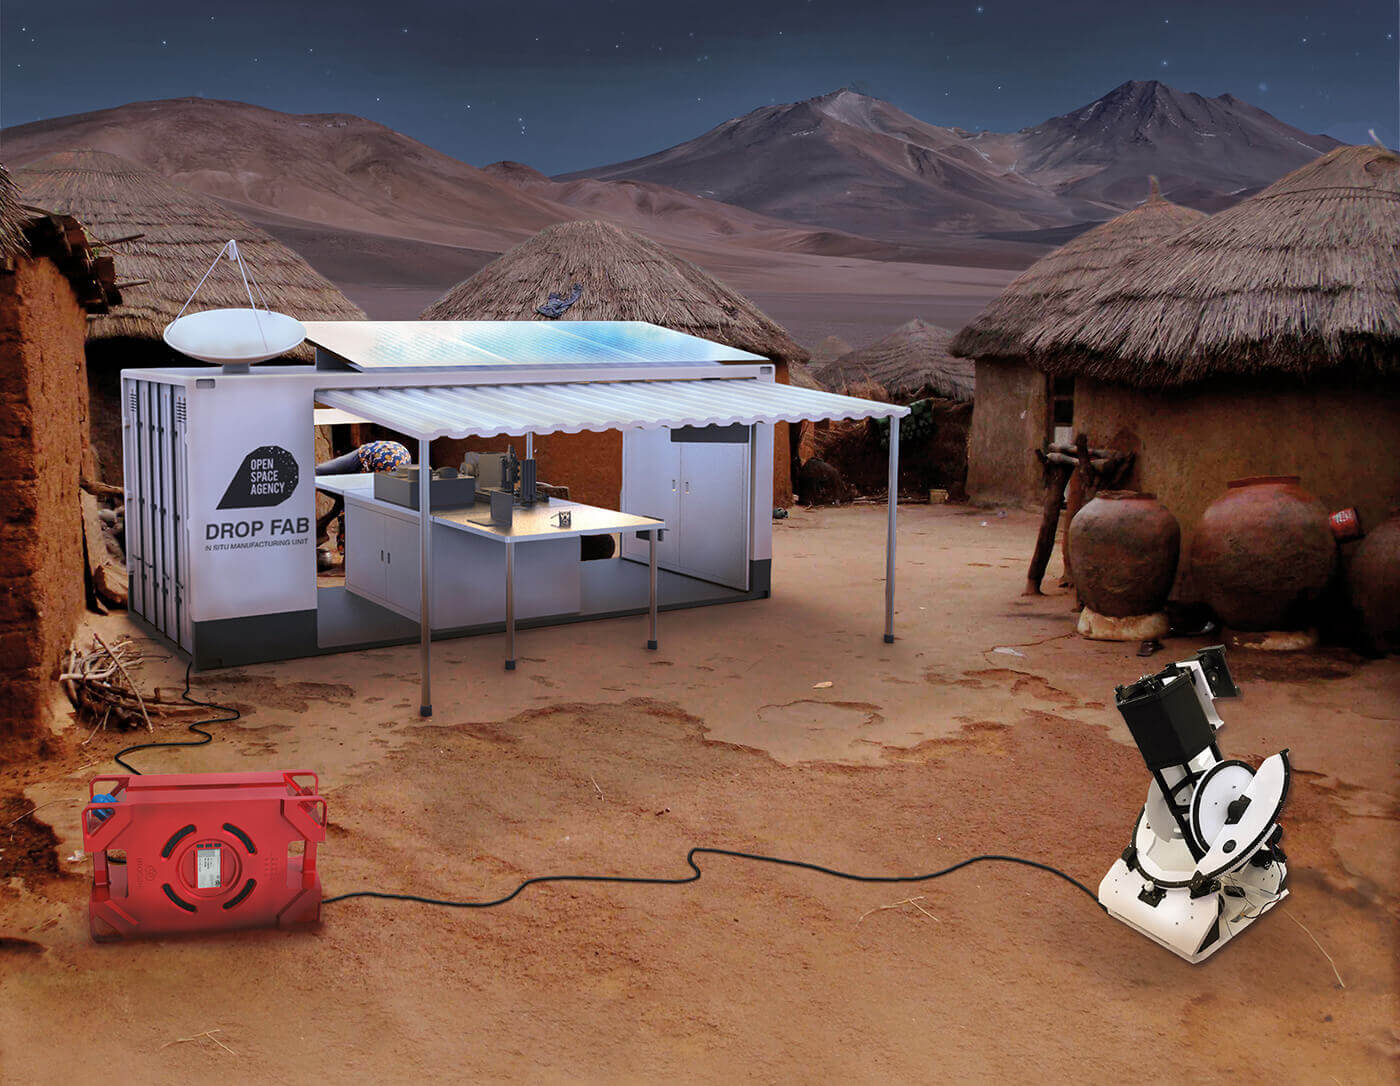
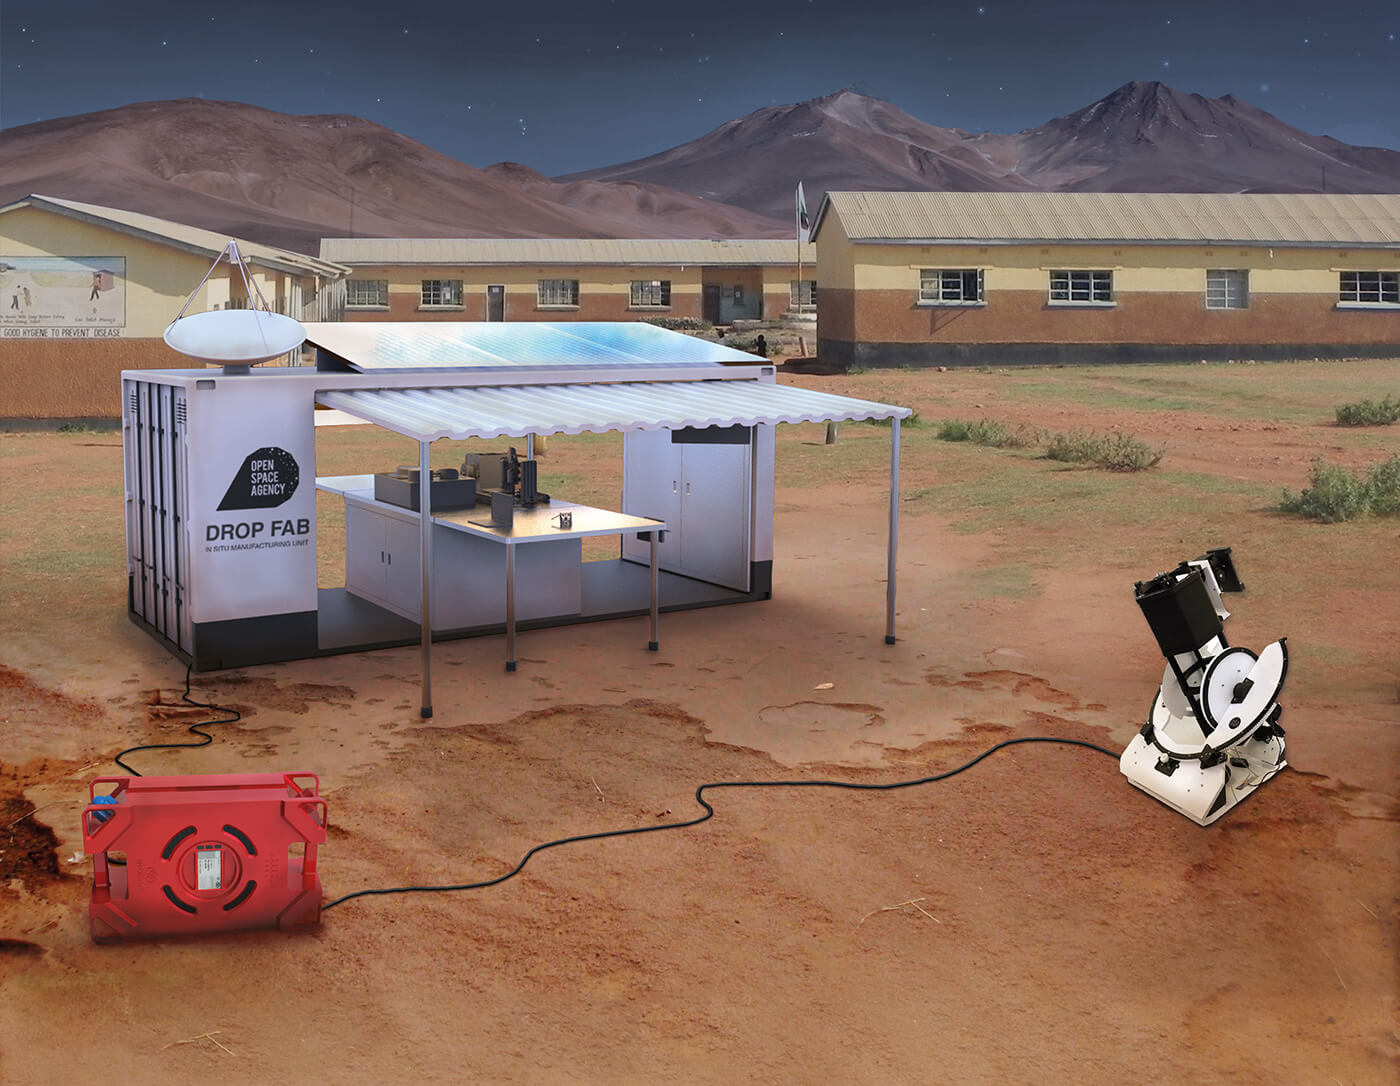
Nuke the huts
+ Remove the huts and replaced with a school
+ adjusted image links for the home page footer

diff --git a/index.html b/index.html
@@ -1737,10 +1737,10 @@
                     <img src="img/trillium-logo.png" class="footer-trillium-logo"/>
                     <p> Trillium is a mission oriented company. We're a team of designers and engineers dedicated to developing technology platforms that tackle grand challenges.  </p>
                     <a href="http://twitter.com/trillium_tech" target="_blank">
-                        <img class="social-icons" src="../img/twitter.png"/>
+                        <img class="social-icons" src="img/twitter.png"/>
                     </a>
                     <a href="http://facebook.com/trilliumtech" target="_blank">
-                        <img src="../img/facebook.png" class="social-icons"/>
+                        <img src="img/facebook.png" class="social-icons"/>
                     </a>
 
                 </div>

diff --git a/css/main.css b/css/main.css
@@ -582,7 +582,7 @@ div.part2 div {
 }
 
 div.section-content.fuelpod-ultrascope-text {
-    top: 99%;
+    top: 90%;
 }
 
 div.section-content.health-of-an-ecosystem-text {
@@ -830,7 +830,7 @@ div.mavericks-lab-badge div:nth-child(2) {
 }
 
 .ultrascope-badge {
-    bottom: 1%;
+    bottom: 8%;
     right: 1%;
 }
 
